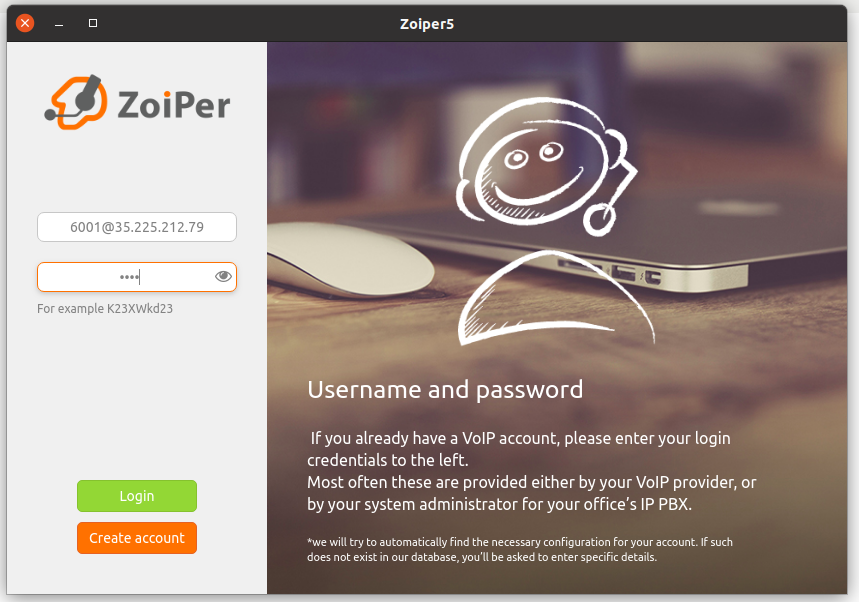
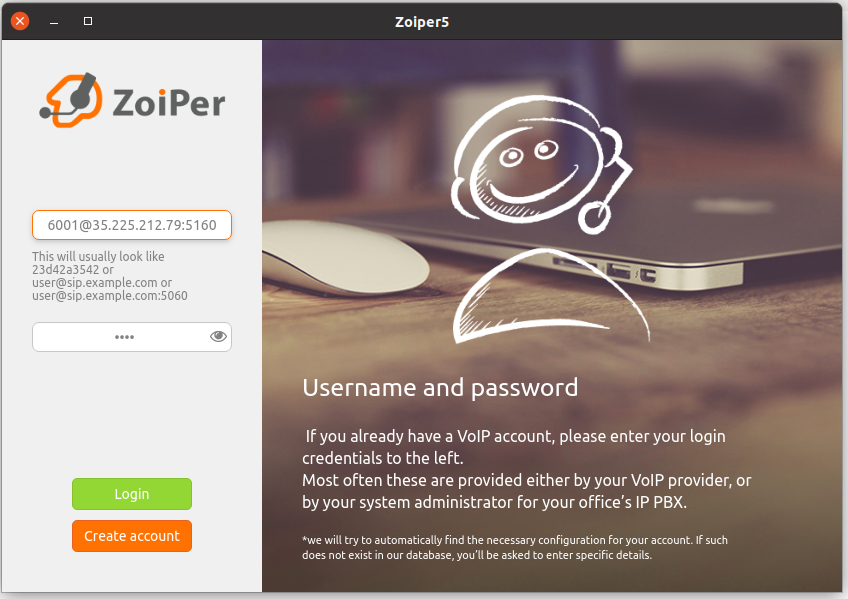
update

diff --git a/_posts/2020-10-15-deploy-freepbx.md b/_posts/2020-10-15-deploy-freepbx.md
@@ -69,4 +69,29 @@ Sau khi thiếp lập xong những số máy nhánh cần thiết, chúng ta san
 ## Thực hiện cuộc gọi
 
 
-Để có thể kết nối với Asterisk đã cấu hình ở trên, chúng ta cần một SIP client. SIP client này chúng ta có thể dùng bất kì client nào, nhưng trong trường hơp này chúng ta sẽ dùng Zoiper để làm SIP client kết nối với Asterisk. 
+Để có thể kết nối với Asterisk đã cấu hình ở trên, chúng ta cần một SIP client. SIP client này chúng ta có thể dùng bất kì client nào, nhưng trong trường hơp này chúng ta sẽ dùng Zoiper để làm SIP client kết nối với Asterisk. Hiện nay, Zoiper đã hỗ trợ rất nhiều hệ điều hành trên nhiều nên tảng khác nhau. 
+
+Sau khi tải và cài đặt Zoiper, mở Zoiper lên chúng ta sẽ có giao hiện như sau.
+
+{% include post_picwrap.html pos="fit" src="/images/topic_image/freepbx/6.png" %}
+
+Theo mặc định Zoiper sẽ đăng ký với Asterisk qua cổng 5060. Nhưng vì chúng ta sử dụng giao thức CHAN_SIP nên mặc định cổng đăng kí trên Asterisk sẽ là 5160. Vì vậy chúng ta cần set thêm số cổng ở sau địa chỉ IP của Asterisk trên Zoiper
+
+
+{% include post_picwrap.html pos="fit" src="/images/topic_image/freepbx/7.png" %}
+
+Khi mọi thứ đều được cấu hình đúng chúng ta sẽ thấy Zoiper thông báo kết nối SIP với giap thức UDP. 
+
+{% include post_picwrap.html pos="fit" src="/images/topic_image/freepbx/8.png" %}
+
+Chúng ta sẽ đăng nhập vào Zoiper trên 1 máy khác cùng mặng với máy host hoặc máy host phải có Static ra Internet. 2 máy này phải đăng nhập vào 2 đầu số khác nhau đã được đăng ký trước đó. Ở đây, chúng ta sử dụng thêm một điện thoại để kết nối với Asterisk. Khi máy A gọi tới máy B, máy B sẽ hiện lên thông báo đổ chuông và 2 hai sẽ thiết lập kết nối khi máy B chấp nhận cuộc gọi của máy A. 
+
+
+{% include post_picwrap.html pos="right" src="/images/topic_image/freepbx/9.png" %}
+
+Khi hai máy kết nối thành công, hai bên đều hiển thị thông số các packet gửi đi và nhận vào như hình bên dưới.
+
+{% include post_picwrap.html pos="right" src="/images/topic_image/freepbx/10.png" %}
+
+
+{% include post_picwrap.html pos="right" src="/images/topic_image/freepbx/11.jpg" %}
